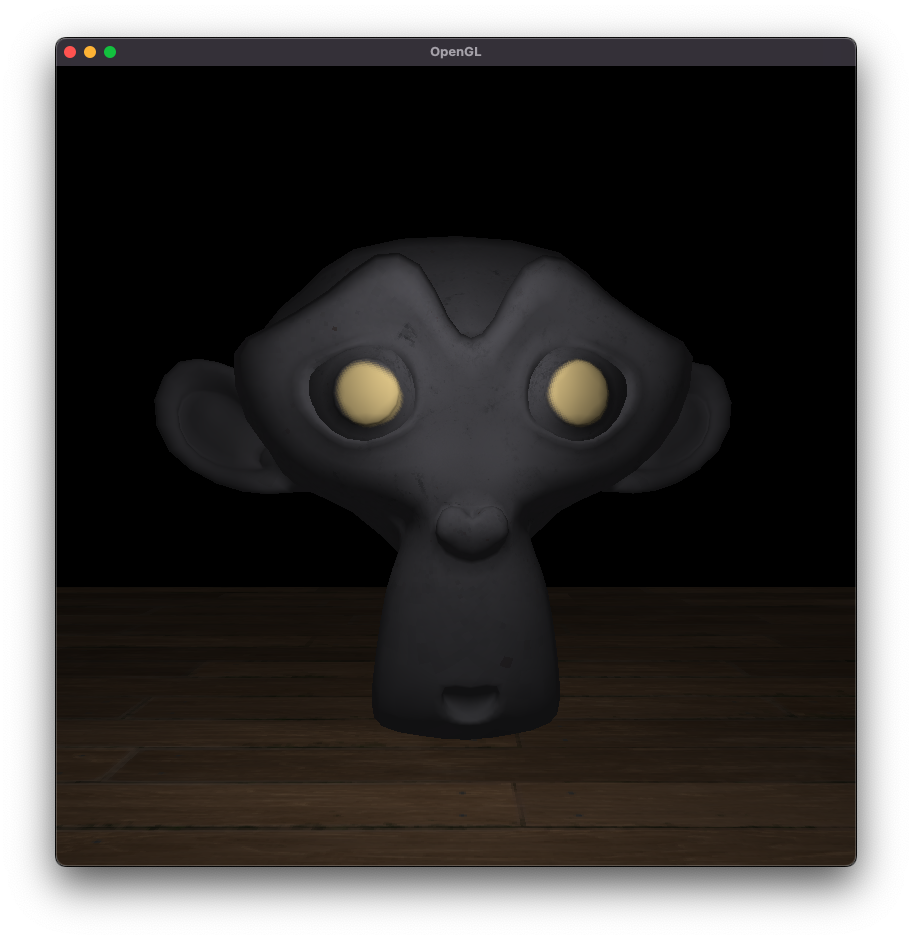
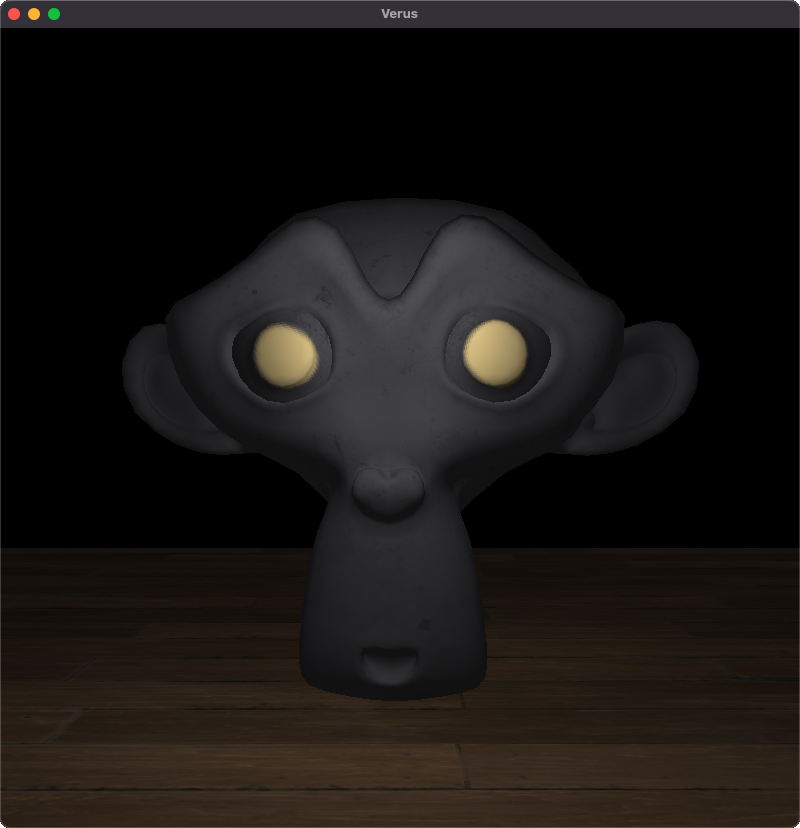
Project rename

diff --git a/src/main.cpp b/src/main.cpp
@@ -4,7 +4,7 @@
 #include "primitives.h"
 
 int main() {
-    Display display(800, 800, "OpenGL");
+    Display display(800, 800, "Verus");
 
     Shader shader("assets/shaders/vertex.glsl", "assets/shaders/fragment.glsl");
 

diff --git a/README.md b/README.md
@@ -1,32 +1,20 @@
-# VertExpr
-An experimental OpenGL engine using `glfw` for window management, `glad` for OpenGL function loading, and `glm` for mathematics and transformations. Features model loading, lighting (point, directional, and spot), and camera controls via mouse and keyboard inputs.
+# Verus
+Verus is an lightweight OpenGL rendering engine. It uses **glfw** for window management, **glad** for OpenGL function loading, and **glm** for mathematics and transformations. Features model loading, lighting (point, directional, and spot), and camera controls via mouse and keyboard inputs.
+
+Currently, the project only supports loading `.gltf` models with support for diffuse and specular textures.
 
 ## Build Instructions
-This project requires `cmake` to build and can be built using the following command:
+This project requires **cmake** and can be built and run as follows:
 
 ```sh
 cmake . && make
+./build/verus
 ```
-Run the executable using `./build/opengl`.
-
-## Project Structure
-- `deps/` External header-only libraries and source dependencies
-- `lib/` Pre-compiled library files (.so, .dll, .a)
-- `src/` Project source files
-- `include/` Project header files
-
-## Loading Models
-Currently, the project only supports loading `.gltf` models with support for diffuse and specular textures.
 
 ## Camera
-Keyboard Controls:
-  - `W`/`A`/`S`/`D` Move forward/left/backward/right
-  - `Space`/`Ctrl` Move up/down
-  - `Left Shift` Sprint (increased movement speed)
+Use `W`/`A`/`S`/`D` to move forward/left/backward/right, `Space`/`Ctrl` to move up/down, and hold `Left Shift` for increased movement speed.
 
-Mouse Controls:
-  - Left click and drag to look around
-  - Mouse is hidden and locked to screen center while looking
+Left click and drag to look around. Mouse is hidden and locked to screen center while looking.
 
 ## Preview
 <img src='assets/example.png' width='600'>
